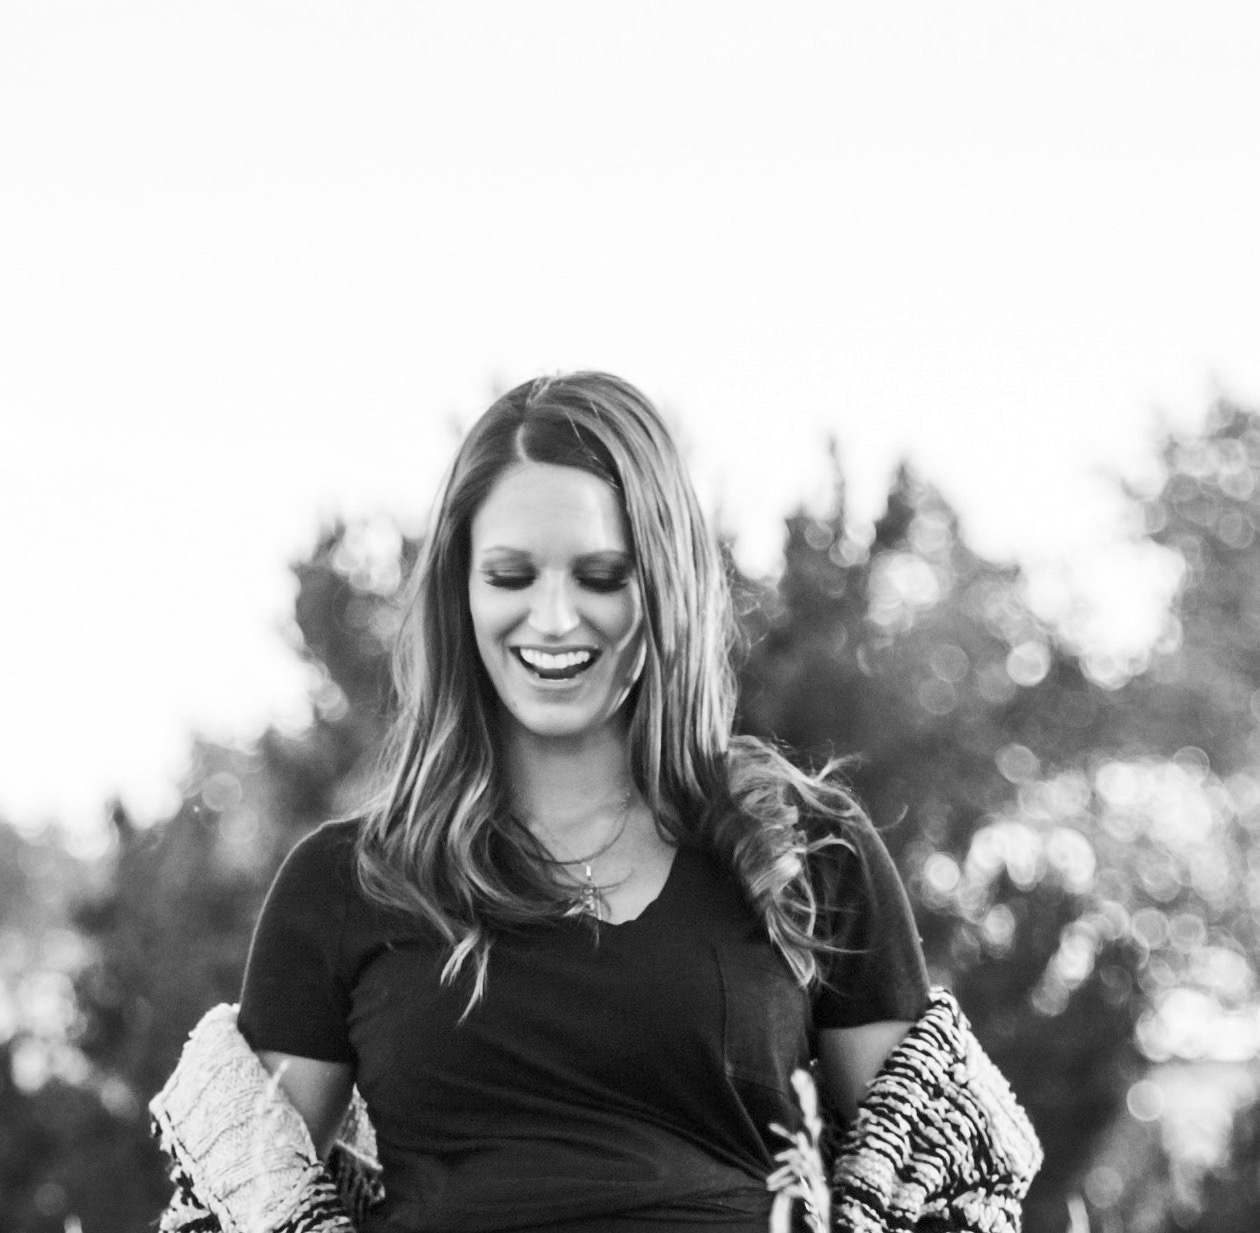
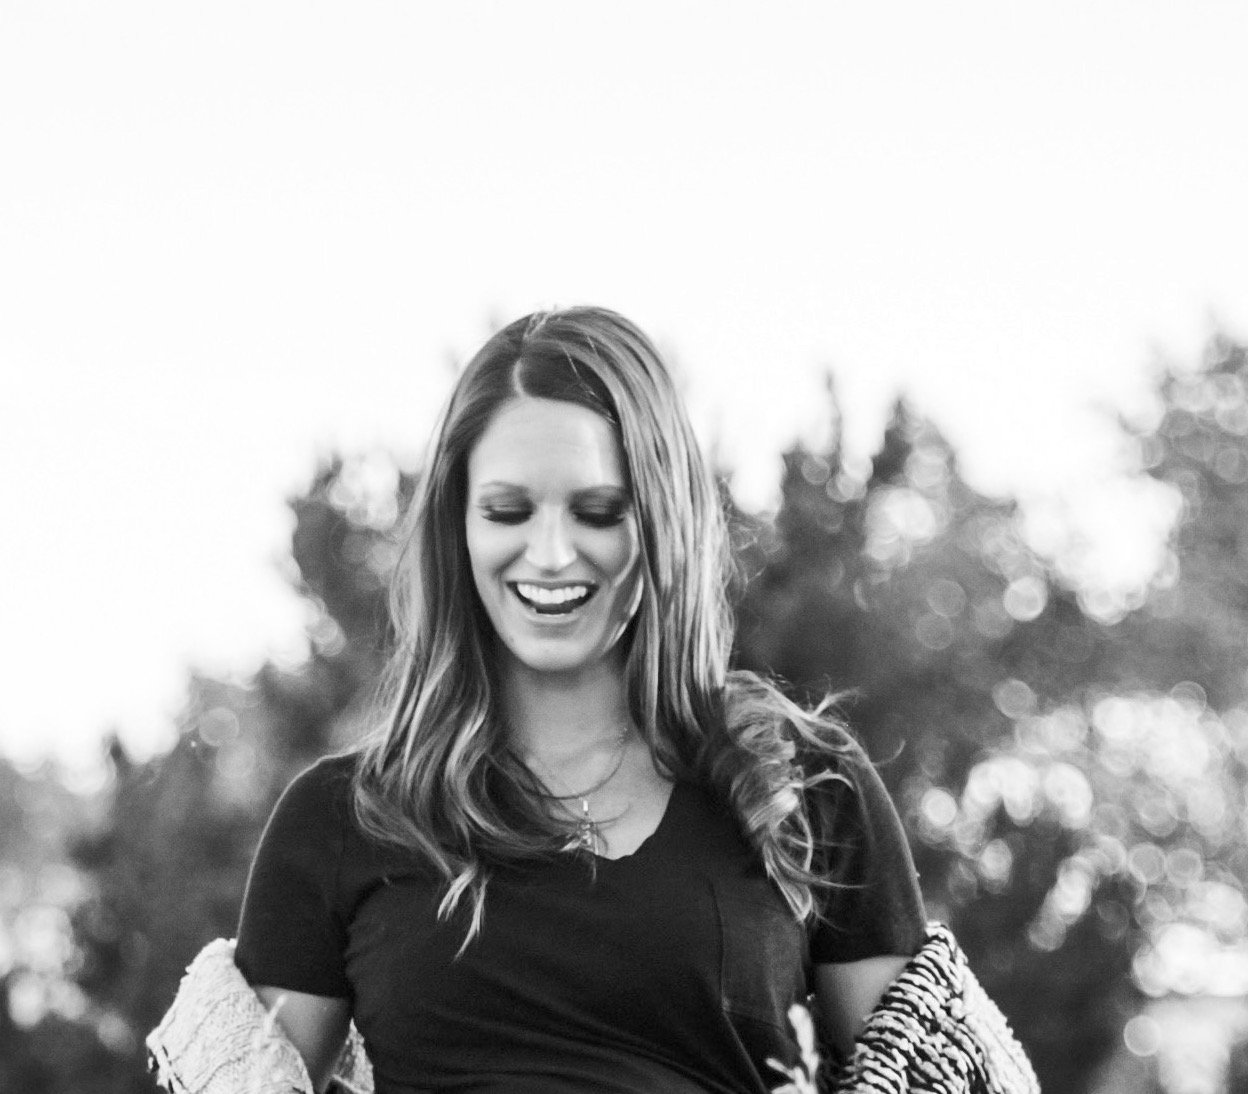
imageindex modified

Changed region(s): [[0.0, 0.2797, 1.0, 1.0], [0.2812, 0.808, 0.3125, 0.8391], [0.25, 0.404, 0.2812, 0.4351]]

diff --git a/index.html b/index.html
@@ -7,7 +7,7 @@
   <link rel="stylesheet" href="https://maxcdn.bootstrapcdn.com/bootstrap/3.3.7/css/bootstrap.min.css">
   <link rel="stylesheet" href="https://maxcdn.bootstrapcdn.com/bootstrap/3.3.7/js/bootstrap.min.js">
   <link href="https://fonts.googleapis.com/css?family=Dosis|Open+Sans:300,400" rel="stylesheet">
-  <link rel="stylesheet" href="../css/style.css">
+  <link rel="stylesheet" href="../Courtneyelizabeth.github.io/css/style.css">
 </head>
 
 <body>
@@ -15,6 +15,7 @@
 
     <div class="container">
       <nav class="navbar-fixed-top" role="navigation">
+        <h3 class="navbar-header pull-left">Front-End Developer and Web Designer</h3>
         <div class="navbar-header pull-right">
           <a href="#hero">Home</a>
           <a href="#portfolio">Portfolio</a>
@@ -23,10 +24,11 @@
         </div>
       </nav>
 
+
+
       <div class="row text-center">
         <div class="col-md-12 visible-md visible-lg">
           <h1>Courtney Heckler</h1>
-          <h3>Front-End Developer and Web Designer</h3>
         </div>
       </div>
 
@@ -71,9 +73,9 @@
           </a>
         </div>
         <div class="col-sm-4">
-          <a href="babyshower/main.js"><a href="babyshower/babyshower.html">
+          <a href="babyshower/babyshower.html">
             <img src="images/babyshower.png" class="img-thumbnail" id="gallery3">
-          </a></a>
+          </a>
         </div>
       </div><!-- row -->
 
@@ -90,9 +92,9 @@
           </a>
         </div>
         <div class="col-sm-4">
-          <a href="weather/weather.js"><a href="weather/snowreport.html">
+          <a href="weather/snowreport.html">
             <img src="images/js.png" alt="aspen ski resort and steamboat resort map and weather" class="img-thumbnail" id="gallery6">
-          </a></a>
+          </a>
         </div>
       </div><!-- row -->
 
@@ -147,7 +149,7 @@
     <section class="container">
       <div class="row text-left">
         <div class="col-xs-6 col-md-4">
-          <img src="images/me-copy.jpg" alt="picture of me smiling" id="gallery2">
+          <img src="images/me.jpg" alt="picture of me smiling" id="gallery2">
         </div>
         <div class="col-xs-12 col-md-4" id="about-me">
           <p>
@@ -156,7 +158,7 @@
           mountain views, succulents, running, friends, family and faith make me smile.
           </p>
           <p>
-         I'm inspired by nature -lighting, sky, water, grains, organic texture- and simplicity. I'm drawn to simplicity. Simple works when there is love in the details. I happily spend days settling on the perfect font for a website.
+         The light hitting a mountainside, textures of snow and earth, the sky, alpine water, grains, organic texture and simplicity all inspire me. I'm drawn to simplicity with love in the details. I happily spend days settling on the perfect font or image for a website.
          I'm passionate about web design and bringing to life a design that is uniquely you. I want you to walk away with a killer new website that you are oh-so-sure is perfect.
           </p>
         </div>

diff --git a/weather/snowreport.html b/weather/snowreport.html
@@ -7,12 +7,14 @@
 
 		<title>Courtney Elizabeth</title>
 		<link rel="stylesheet" href="css/style.css">
-		<link rel="stylesheet" type="text/css"
-		href="http://cdnjs.cloudflare.com/ajax/libs/normalize/3.0.1/normalize.min.css">
-		<link href="style.css" rel="stylesheet"/>
+		<!--<link rel="stylesheet" type="text/css">-->
+		<link rel ="http://cdnjs.cloudflare.com/ajax/libs/normalize/3.0.1/normalize.min.css">
+		<!--<link href="style.css" rel="stylesheet"/>-->
      <!--<script src="main.js"></script>-->
 </head>
+
 <body>
+
   <header>
     <div class="wrapper">
       <!--<h1><a href="index.html">Courtney Heckler</a></h1>-->
@@ -28,12 +30,12 @@
     </div>	<!-- end header wrapper -->
   </header>
 
-</head>
+
 <div id="content">
   <div class="wrapper">
     <h1 id="title" class="center">Current Weather</h1>
-			<div class="row">
 
+			<div class="row">
       		<div id="map"></div>
 						<div class="center">
 							<h3 id="city"></h3>
@@ -43,7 +45,8 @@
 								<p id="windMph"> mph wind</p>
 						</div>
 				</div><!-- end row-->
-		--<div class="row">
+
+		<div class="row">
 				<div id="map2"></div>
 					<div class="center">
 						<h3 id="city2"></h3>
@@ -53,8 +56,10 @@
 							<p id="windSpeedMph"> mph wind</p>
 					</div>
 		</div><!--end row-->
+
   </div><!--end wrapper-->
 </div><!--end content-->
+
 <footer>
   <div class="wrapper">
     <div class="row">
@@ -62,6 +67,8 @@
   </div> <!-- end footer wrapper -->
 </div>
 </footer>
+
+
 <script src="https://ajax.googleapis.com/ajax/libs/jquery/2.1.3/jquery.min.js"></script>
 <script src="https://maps.googleapis.com/maps/api/js"></script>
 <script src="weather.js"></script>
@@ -90,5 +97,6 @@ google.maps.event.addDomListener(window, 'load', initialize);
 google.maps.event.addDomListener(window, 'load', initialize2);
 
     </script>
+
 </body>
 </html>

diff --git a/css/style.css b/css/style.css
@@ -24,7 +24,7 @@ body{
   color: #000;
   margin: 0;
   text-transform: uppercase;
-  font-size: 30px;
+  font-size: 23px;
   letter-spacing: 50px;
 }
 
@@ -32,8 +32,10 @@ body{
   font-family: 'Open Sans', sans-serif;
   color: #000;
   font-weight: 300;
-  font-size: 19px;
-  padding-top: 50px;
+  font-size: 10px;
+  padding-top: 0px;
+  letter-spacing: 1.5px;
+  padding-left: 6px;
 }
 .jumbotron h2{
   font-family: 'Dosis', sans-serif;
@@ -55,7 +57,7 @@ body{
 }
 
 #hero{
-  background: url(../images/hero.jpg) no-repeat center center;
+  background: url(../images/hero-copy.jpg) no-repeat center center;
   display: flex;
   align-items: center;
   height: 635px;
